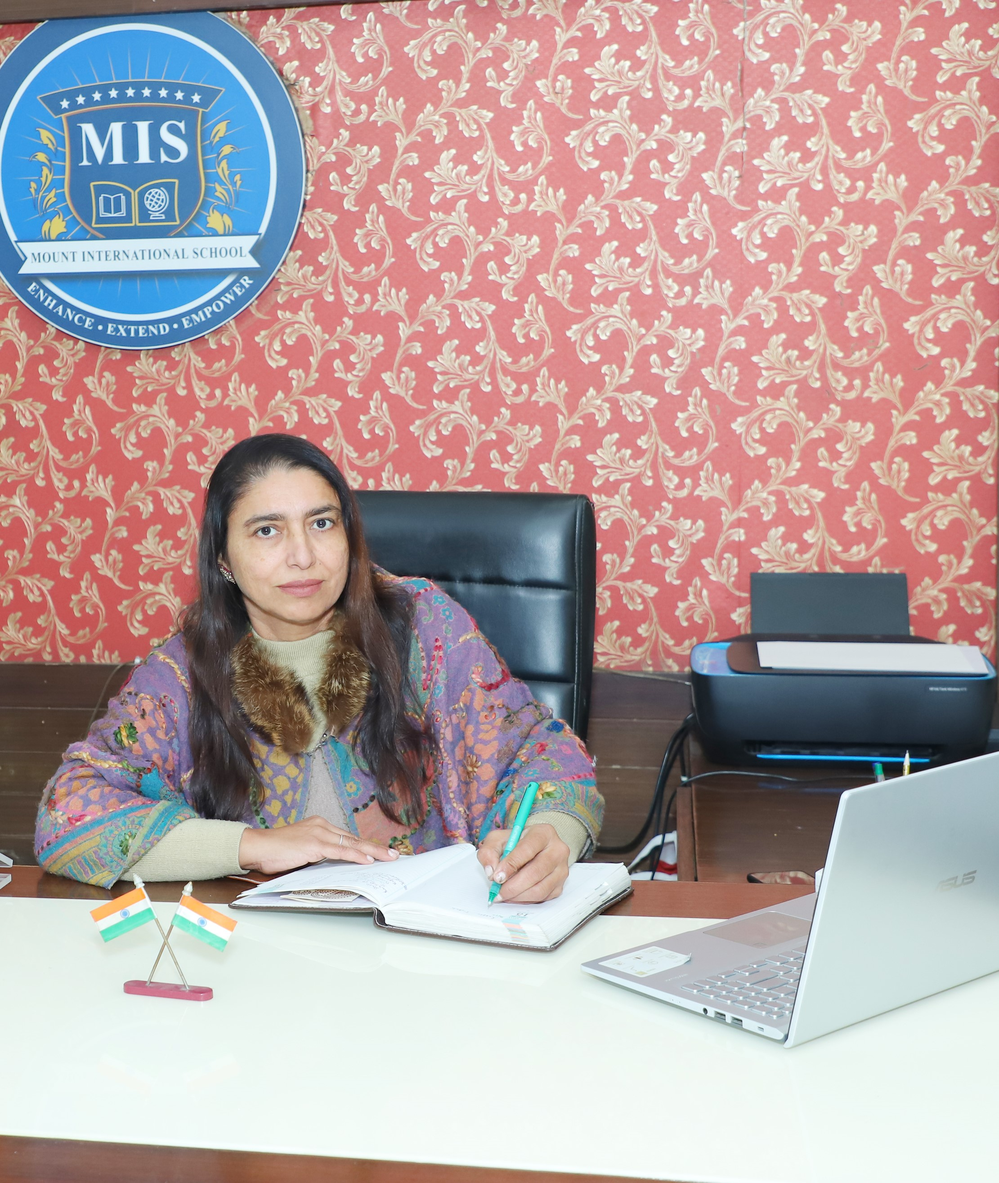
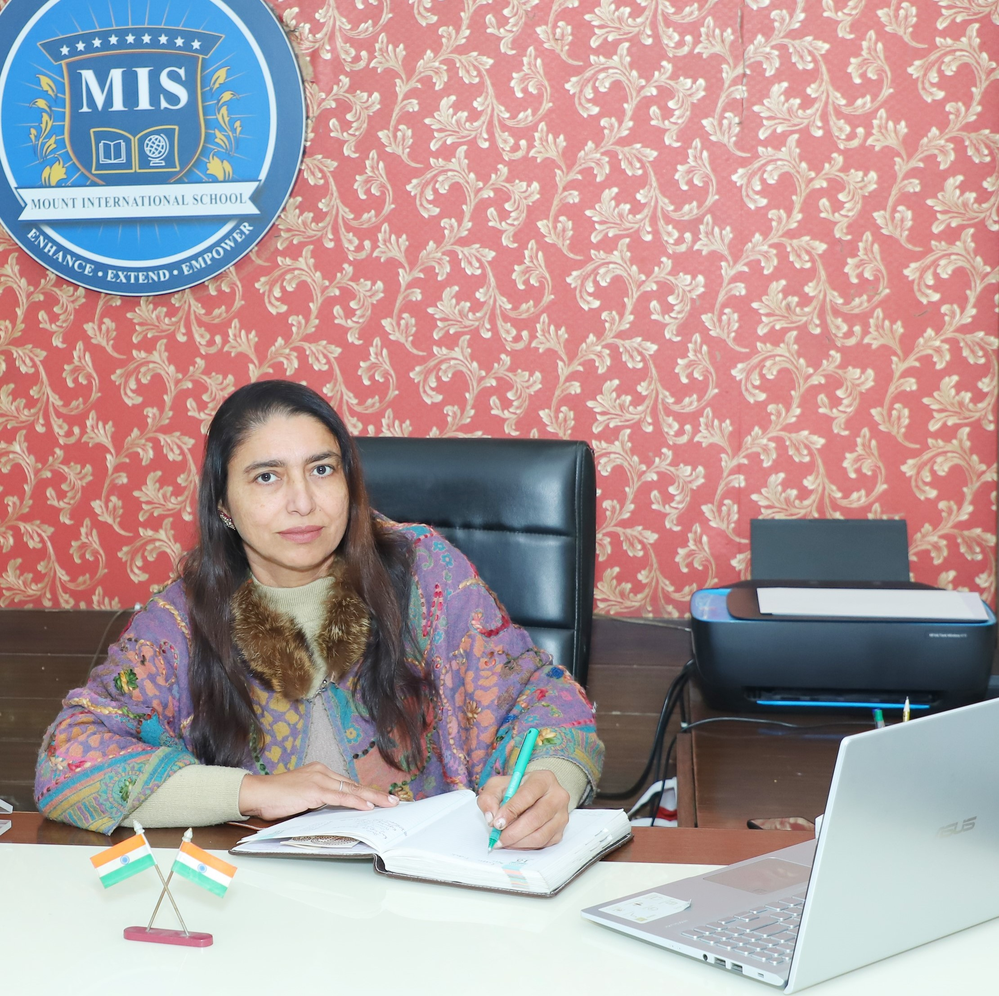
jhkhjk

diff --git a/principal-message.html b/principal-message.html
@@ -71,21 +71,18 @@
 
     <div class="container py-5">
         <div class="row ">
-            <div class="col-lg-6 ">
+            <div class="col-lg-12 text-center ">
                 <img class="img-fluid" src="images/Principal-new.JPG" alt="">
             </div>
-            <div class="col-lg-6">
-                <div class="secpadtex sechair">
-                    <p>Dear Parents,</p>
-                    <p> Welcome to Mount International School Ludhiana, where we believe that education is a shared journey between the school, the students, and you, the parents. Our school is committed to creating a learning environment that not only focuses on academic excellence but also prioritizes the holistic development of every child. Our aim is to cultivate a space where every child's potential is nurtured, and their unique abilities are recognized and celebrated. We encourage our students to embrace the joy of learning, explore their passions, and grow into confident, thoughtful individuals.</p>
-                    <p> We understand that each child is different, and so are the challenges they face. That’s why we are deeply committed to listening to each and every concern—no matter how small—and addressing it with the care and attention it deserves. We place the highest value on nurturing strong, collaborative relationships with our parents, recognizing that your involvement is crucial to the success of our students. Our doors are always open to parents, and we value your insights and feedback as we work together to create the best possible educational experience for your child.</p>
-                 
-                </div>
-            </div>
-        </div>
+            <div class="col-lg-12">
+             
+         
 
         <div class="secpadtex pt-4">
-            <p>In today’s rapidly evolving world, we also recognize the importance of integrating technology into our teaching methods. We strive to blend modern educational practices with traditional values, ensuring our students are well-prepared for the future while remaining grounded in the principles of empathy, respect, and community. Our dedicated teachers are the cornerstone of our educational community, guiding and inspiring students to reach their full potential every step of the way. Our goal is to guide our students toward becoming independent thinkers, compassionate leaders, and lifelong learners. We are dedicated to providing them with the tools they need to achieve their dreams and contribute meaningfully to society.</p>
+            <p>Dear Parents,</p>
+            <p> Welcome to Mount International School Ludhiana, where we believe that education is a shared journey between the school, the students, and you, the parents. Our school is committed to creating a learning environment that not only focuses on academic excellence but also prioritizes the holistic development of every child. Our aim is to cultivate a space where every child's potential is nurtured, and their unique abilities are recognized and celebrated. We encourage our students to embrace the joy of learning, explore their passions, and grow into confident, thoughtful individuals.</p>
+            <p> We understand that each child is different, and so are the challenges they face. That’s why we are deeply committed to listening to each and every concern—no matter how small—and addressing it with the care and attention it deserves. We place the highest value on nurturing strong, collaborative relationships with our parents, recognizing that your involvement is crucial to the success of our students. Our doors are always open to parents, and we value your insights and feedback as we work together to create the best possible educational experience for your child.</p>
+                     <p>In today’s rapidly evolving world, we also recognize the importance of integrating technology into our teaching methods. We strive to blend modern educational practices with traditional values, ensuring our students are well-prepared for the future while remaining grounded in the principles of empathy, respect, and community. Our dedicated teachers are the cornerstone of our educational community, guiding and inspiring students to reach their full potential every step of the way. Our goal is to guide our students toward becoming independent thinkers, compassionate leaders, and lifelong learners. We are dedicated to providing them with the tools they need to achieve their dreams and contribute meaningfully to society.</p>
             <p>Thank you for entrusting us with your child’s education. We look forward to continuing this journey together and ensuring that every student at Mount International School thrives in a supportive, inclusive, and engaging environment.</p>
       
            
@@ -95,7 +92,8 @@
             <p class=""><b>Principal</b></p>
             <p class=""><b>Mount International School, Ludhiana</b></p>
         </div>
-
+    </div>
+</div>
     </div>
 
 

diff --git a/css/style.css b/css/style.css
@@ -911,6 +911,7 @@ justify-content: flex-end;
   background-repeat: no-repeat;
   background-size: cover;
   padding: 80px 0px;
+  text-align: center;
 }
 .secaabbg h2{
   font-family: 'Inter';
@@ -918,6 +919,9 @@ justify-content: flex-end;
   font-size: 80px;
   color: #fff;
   text-align: center;
+  background-color: #1762AD;
+  display: inline-block;
+  padding: 5px 10px;
 }
 .seciqatext{
   font-family: 'Inter';
@@ -1004,7 +1008,7 @@ color: #1763AD;
   text-transform: uppercase;
 }
 .fullbgg{
-  margin-top: -90px;
+  margin-top: 50px;
 }
 .fulltext{
   padding-top: 30px;
@@ -1422,6 +1426,7 @@ ul.nav.nav-tabs a.nav-link {
   background-repeat: no-repeat;
   background-size: cover;
   padding: 80px 0px;
+  text-align: center;
 }
 .secaabbg100 h2{
   font-family: 'Inter';
@@ -1429,6 +1434,9 @@ ul.nav.nav-tabs a.nav-link {
   font-size: 80px;
   color: #fff;
   text-align: center;
+  background-color: #1762AD;
+  display: inline-block;
+  padding: 5px 10px;
 }
 
 .secaabbg101{
@@ -1436,6 +1444,7 @@ ul.nav.nav-tabs a.nav-link {
   background-repeat: no-repeat;
   background-size: cover;
   padding: 80px 0px;
+  text-align: center;
 }
 .secaabbg101 h2{
   font-family: 'Inter';
@@ -1443,6 +1452,9 @@ ul.nav.nav-tabs a.nav-link {
   font-size: 80px;
   color: #fff;
   text-align: center;
+  background-color: #1762AD;
+  display: inline-block;
+  padding: 5px 10px;
 }
 .seciconbggtext {
   text-align: center;
@@ -1482,6 +1494,55 @@ ul.nav.nav-tabs a.nav-link {
   text-align: center;
   margin: auto;
 }
+.allgallry .item {
+  height: 550px;
+  width: 100%;
+}
+
+.allgallry .item .img-fluid {
+  max-width: 80%  !important;
+  height: 100%;
+  margin: auto;
+
+}
+.allgallry .owl-dots {
+display: none;
+}
+
+.allgallry .owl-nav{
+  margin-top: -295px;
+  margin-bottom: 337px;
+  z-index: 999;
+  position: relative;
+}
+
+.allgallry button.owl-next {
+  float: right;
+}
+
+.allgallry button.owl-next span {
+  font-size: 40px;
+  background-color: #1762AD;
+  border-radius: 50%;
+  color: #fff;
+  padding: 0px 28px 15px 28px   ;
+}
+.allgallry button.owl-prev span {
+  font-size: 40px;
+  background-color: #1762AD;
+  border-radius: 50%;
+  color: #fff;
+  padding: 0px 28px 15px 28px   ;
+}
+
+
+
+
+
+
+
+
+
 
 
 

diff --git a/art-and-craft-room.html b/art-and-craft-room.html
@@ -90,7 +90,7 @@
                     
                 </div>
 
-                <div class="row pb-5">
+                <!-- <div class="row pb-5">
                     <div class="col-md-4">
                         <img class="img-fluid" src="images/Art-roomimg1.JPG" alt="">
                     </div>
@@ -105,6 +105,28 @@
                     </div>
                     <div class="col-md-4">
                         <img class="img-fluid" src="images/art-img3.jpeg" alt="">
+                    </div>
+                </div> -->
+
+
+                <div class="row">
+                    <div class="owl-carousel allgallry owl-theme">
+                        <div class="item">
+                            <img class="img-fluid" src="images/Art-roomimg1.JPG" alt="">
+                        </div>
+                        <div class="item">
+                            <img class="img-fluid" src="images/Art-roomimg2.JPG" alt="">
+                        </div>
+                        <div class="item">
+                            <img class="img-fluid" src="images/art-img1.jpeg" alt="">
+                        </div>
+                        <div class="item">
+                            <img class="img-fluid" src="images/art-img2.jpeg" alt="">
+                        </div>
+                        <div class="item">
+                            <img class="img-fluid" src="images/art-img3.jpeg" alt="">
+                        </div>
+                      
                     </div>
                 </div>
             </div>
@@ -130,6 +152,24 @@
     <script src="js/include-html.min.js"></script>
     <script src='https://cdn.jsdelivr.net/npm/slick-carousel@1.8.1/slick/slick.min.js'></script>
 
+    <script>
+        $('.owl-carousel.allgallry').owlCarousel({
+    loop:true,
+    margin:10,
+    nav:true,
+    responsive:{
+        0:{
+            items:1
+        },
+        600:{
+            items:1
+        },
+        1000:{
+            items:1
+        }
+    }
+})
+    </script>
 
 </body>
 

diff --git a/about.html b/about.html
@@ -74,15 +74,15 @@
         <div class="row">
             <div class="col-md-6">
                 <div class="actpadd2">
-                    <h4>About Mount International School</h4>
+                    <!-- <h4>About Mount International School</h4> -->
                     <p>Mount International School (MIS), an English medium co-educational institute in Ludhiana, Punjab, has quickly established itself as a premier institution under the flagship of the Lala Megh Raj Educational Society. Since its inception in 2015, MIS has been committed to nurturing young learners as future global citizens. The school offers a dynamic and progressive environment, responsive to the evolving world, to foster self-awareness, lifelong learning, and intellectual growth. Following a curriculum affiliated with CBSE, New Delhi, MIS provides a balanced, innovative education rooted in strong pedagogical principles to unlock each child’s unique potential and prepare them to thrive in the 21st century.</p>
 
                     <!-- <p class="secpaddl"><a href="images/ciqa.pdf" target="_blank">Collaboration with CIQA- “Centre for
                             International Qualifications and Assessment”.</a></p> -->
 
-                    <div class="secadmin">
+                    <!-- <div class="secadmin">
                         <a href="admission.html">Admission Open</a>
-                    </div>
+                    </div> -->
 
                 </div>
             </div>

diff --git a/css/responsive.css b/css/responsive.css
@@ -956,4 +956,34 @@ p{
 .seccategbg {
   padding: 10px;
 }
+.allgallry .owl-nav {
+  margin-top: 0px;
+  margin-bottom: 33px;
+  z-index: 999;
+  position: relative;
+  text-align: center;
+}
+.allgallry button.owl-prev span {
+  font-size: 25px;
+  background-color: #1762AD;
+  border-radius: 50%;
+  color: #fff;
+  padding: 0px 17px 10px 17px;
+}
+.allgallry button.owl-next span {
+  font-size: 25px;
+  background-color: #1762AD;
+  border-radius: 50%;
+  color: #fff;
+  padding: 0px 17px 10px 17px;
+  margin-left: 20px;
+}
+.allgallry button.owl-next {
+  float: none;
+}
+.allgallry .item .img-fluid {
+  max-width: 100% !important;
+  height: 100%;
+  margin: auto;
+}
 }
